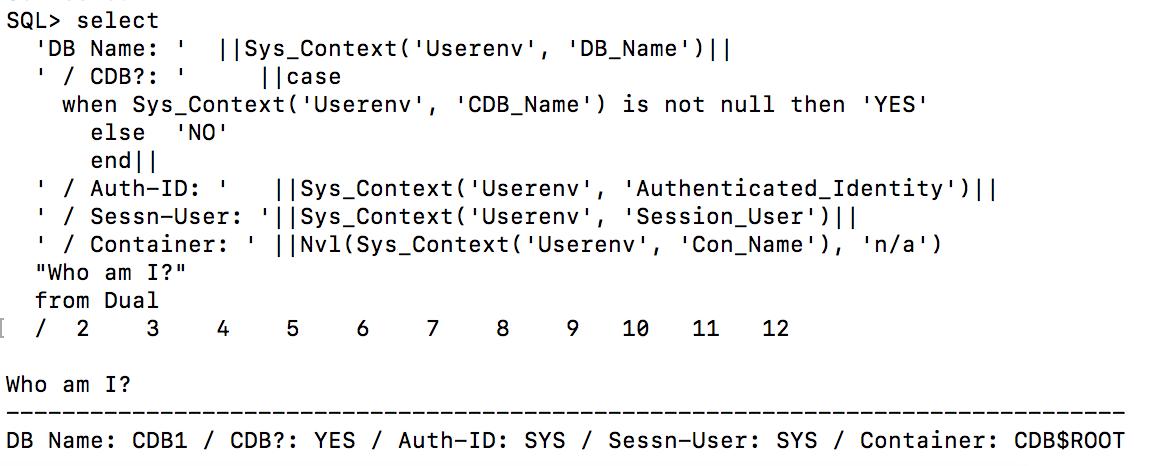
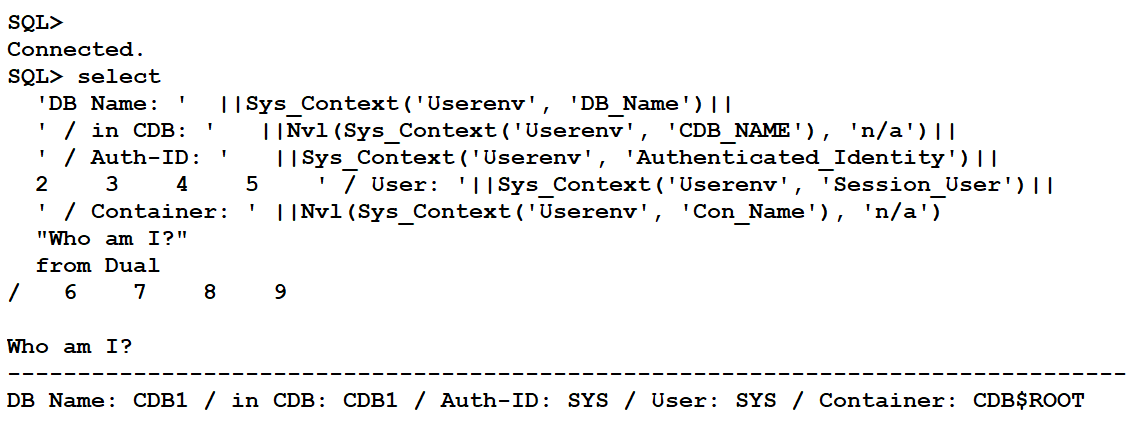
test

diff --git a/manage-app/clone-plug-drop/clone-plug-drop.md b/manage-app/clone-plug-drop/clone-plug-drop.md
@@ -25,11 +25,12 @@ The tasks you will accomplish in this lab are:
 
     ````
 
-    <copy>select
+    <copy>
+  select
   'DB Name: '  ||Sys_Context('Userenv', 'DB_Name')||
-  ' / CDB Name: '   ||Sys_Context('Userenv', 'CDB_NAME')||
+  ' / in CDB: '   ||Nvl(Sys_Context('Userenv', 'CDB_NAME'), 'n/a')||
   ' / Auth-ID: '   ||Sys_Context('Userenv', 'Authenticated_Identity')||
-  ' / Sessn-User: '||Sys_Context('Userenv', 'Session_User')||
+  ' / User: '||Sys_Context('Userenv', 'Session_User')||
   ' / Container: ' ||Nvl(Sys_Context('Userenv', 'Con_Name'), 'n/a')
   "Who am I?"
   from Dual
